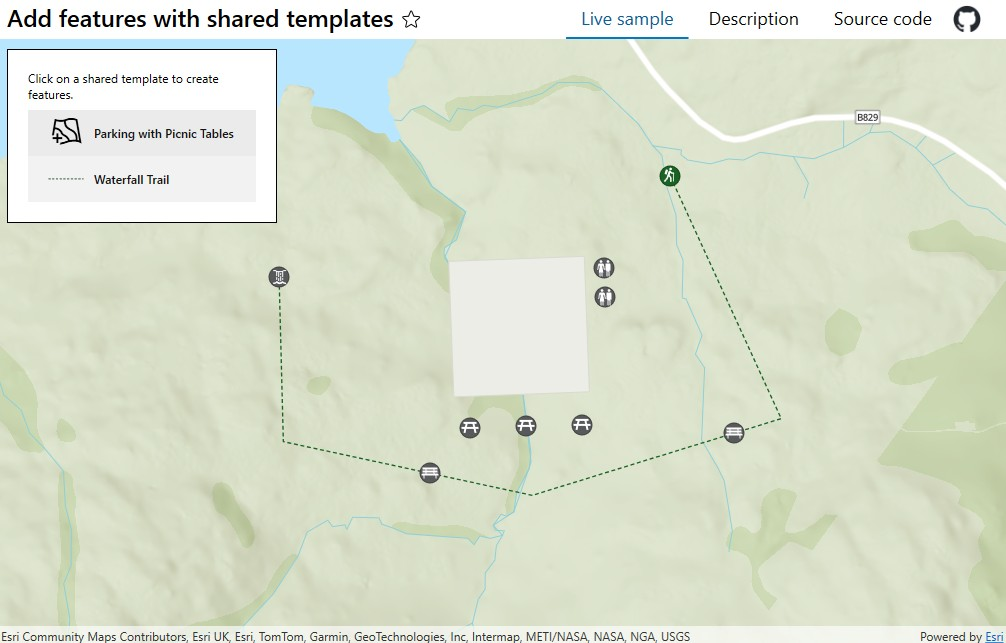
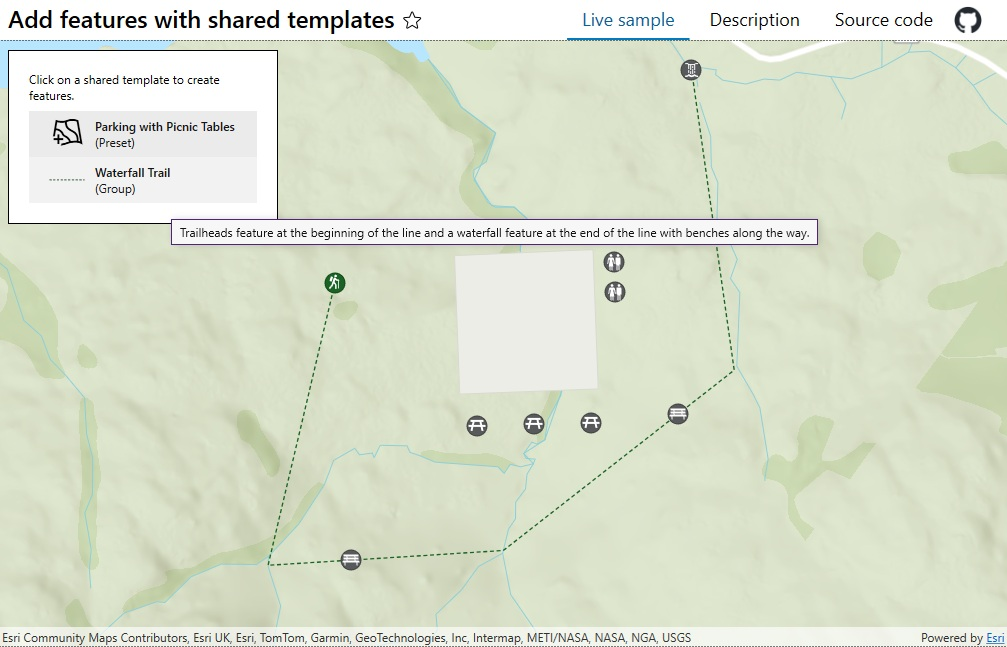
samples: CR Vince

diff --git a/src/WPF/WPF.Viewer/Samples/Data/AddFeaturesWithSharedTemplate/AddFeaturesWithSharedTemplate.xaml b/src/WPF/WPF.Viewer/Samples/Data/AddFeaturesWithSharedTemplate/AddFeaturesWithSharedTemplate.xaml
@@ -38,7 +38,8 @@
                         <DataTemplate>
                             <Button HorizontalAlignment="Stretch"
                                     HorizontalContentAlignment="Stretch"
-                                    Click="OnSharedTemplateClicked">
+                                    Click="OnSharedTemplateClicked"
+                                    ToolTip="{Binding Template.Description}">
                                 <Grid Margin="0,3">
                                     <Grid.ColumnDefinitions>
                                         <ColumnDefinition Width="44" />
@@ -49,11 +50,14 @@
                                            HorizontalAlignment="Center"
                                            VerticalAlignment="Center"
                                            Source="{Binding ImageSource}" />
-                                    <TextBlock Grid.Column="1"
-                                               Margin="6,0,0,0"
-                                               VerticalAlignment="Center"
-                                               FontWeight="SemiBold"
-                                               Text="{Binding Template.Name}" />
+                                    <StackPanel Grid.Column="1"
+                                                Margin="6,0,0,0"
+                                                VerticalAlignment="Center">
+                                        <TextBlock FontWeight="SemiBold"
+                                                   Text="{Binding Template.Name}"
+                                                   TextWrapping="Wrap" />
+                                        <TextBlock Text="{Binding Template.Type, StringFormat=({0})}" />
+                                    </StackPanel>
                                 </Grid>
                             </Button>
                         </DataTemplate>

diff --git a/src/WPF/WPF.Viewer/Samples/Data/AddFeaturesWithSharedTemplate/readme.md b/src/WPF/WPF.Viewer/Samples/Data/AddFeaturesWithSharedTemplate/readme.md
@@ -6,7 +6,7 @@ Create features from preset and group shared templates, then save or discard the
 
 ## Use case
 
-Preset and group shared templates support guided, repeatable, high-quality editing. They combine default attributes, symbology, geometry-construction settings, and related or associated features, so field staff can create complete, consistently configured feature sets with only a few choices.
+Preset and group shared templates support guided, repeatable, high-quality editing. Preset templates place predefined feature arrangements, while group templates create related feature sets relative to a user-defined base geometry. By automatically applying attributes, symbology, geometry settings, and feature relationships, they help field staff create consistent, fully configured assets with only a few choices.
 
 ## How to use the sample
 
@@ -15,10 +15,10 @@ Click on a shared template to create features. Draw geometry. Save or undo local
 ## How it works
 
 1. Load the public [Parks and Grounds Assets](https://arcgisruntime.maps.arcgis.com/home/item.html?id=dd64a70d17de4f16a93d2203c4cf1ab3) web map.
-2. Determine an `ISharedTemplateSource` from the map layers.
-3. Call `ISharedTemplateSource.QuerySharedTemplatesAsync()` to build a template picker.
+2. Determine the `ISharedTemplateSource` by inspecting map layers, identifying `FeatureLayer` instances backed by a `ServiceFeatureTable`, and retrieving their `ServiceGeodatabase`.
+3. Call `ISharedTemplateSource.QuerySharedTemplatesAsync()` to populate a template picker. Store each template's `layerId`, display its name and type, and use native contextual help to show its description.
 4. Call `SharedTemplate.CreateSwatchAsync(layerId)`  to generate a swatch image for each template, falling back to a default image when a swatch is unavailable.
-5. `SharedTemplate.GetDefaultConstructionTool(layerId)` to determine the appropriate GeometryEditor tool for creating the template’s geometry.
+5. Call `SharedTemplate.GetDefaultConstructionTool(layerId)` to get the template’s default construction method. Use its `SharedTemplate.ToolType` to choose whether the `GeometryEditor` draws a point or polyline.
 6. After the user selects **Complete**, call `GeometryEditor.Stop()` and use the returned geometry to create features with `ISharedTemplateSource.CreateFeaturesAsync(sharedTemplate, geometry)`. Then call `ISharedTemplateSource.AddFeaturesAsync()` to add the resulting feature set to the geodatabase.
 7. Select **Save** to apply local edits with `ServiceGeodatabase.ApplyEditsAsync()`, or select **Cancel** to discard them with `ServiceGeodatabase.UndoLocalEditsAsync()`.
 
